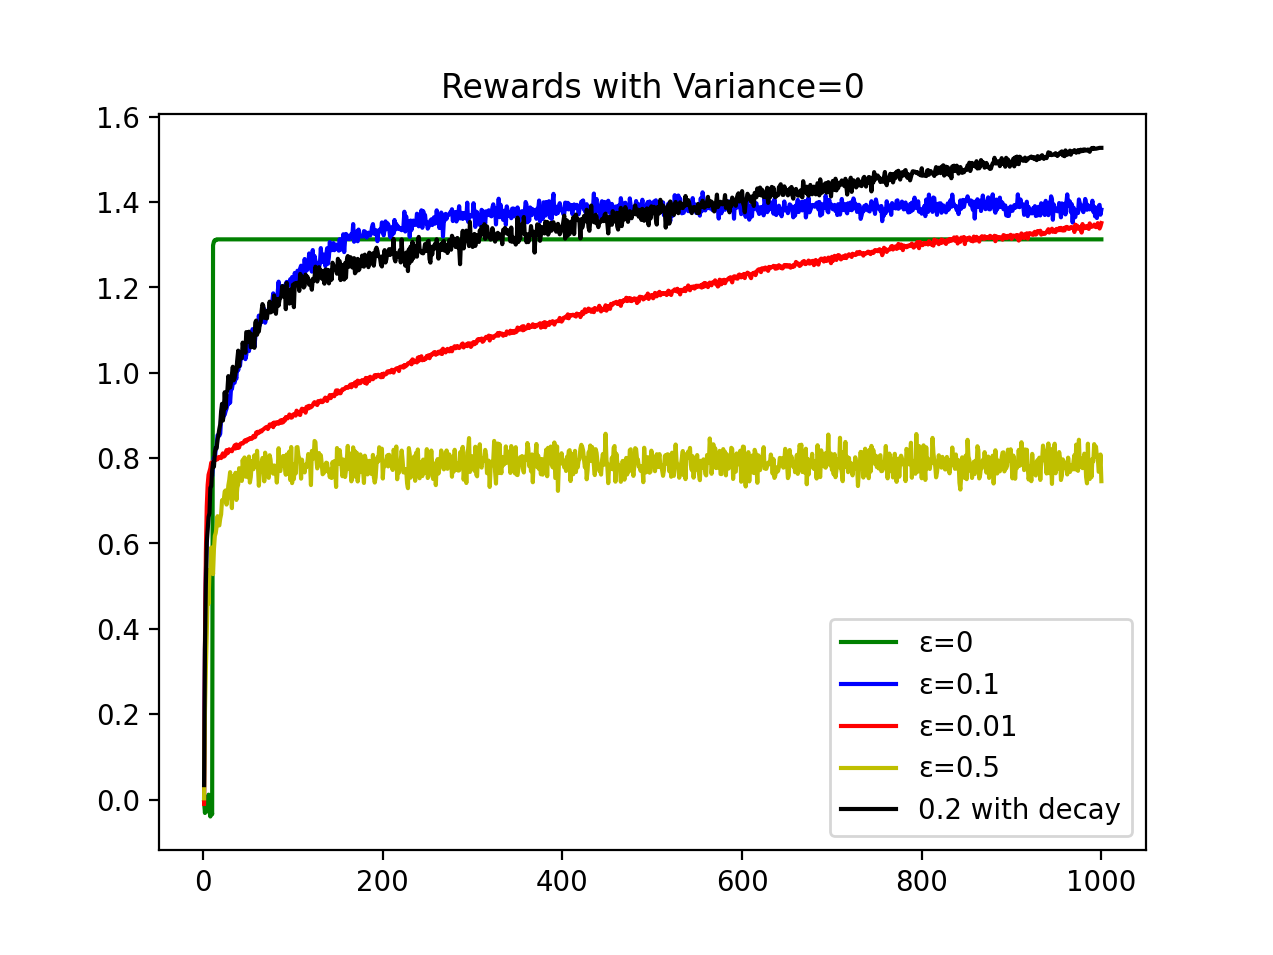
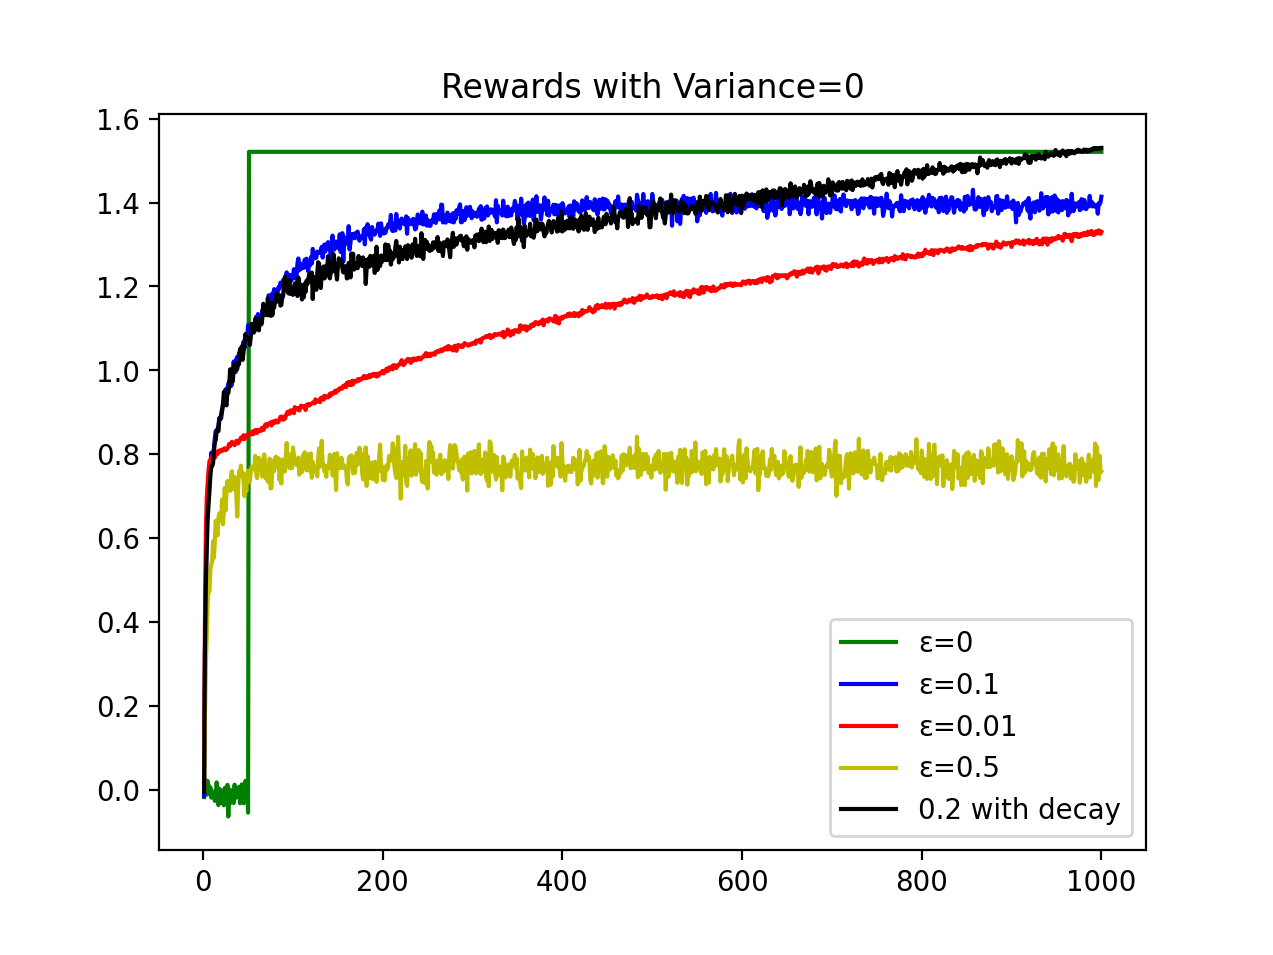
more exploration

diff --git a/experiments/exploration_exploitation_bandit_stationary.py b/experiments/exploration_exploitation_bandit_stationary.py
@@ -41,7 +41,7 @@ def run_single_experiment(epsilon: float, decay=False, variance=1):
     optimal_action_percentage = []
     for i in range(steps):
         epsilon = epsilons[i] if epsilons else epsilon
-        if i < 10 and variance == 0 and epsilon == 0:
+        if i < 50 and variance == 0 and epsilon == 0:
             selected_action = np.random.choice(10)
         else:
             selected_action = epsilon_greedy_action(action_values, epsilon)
